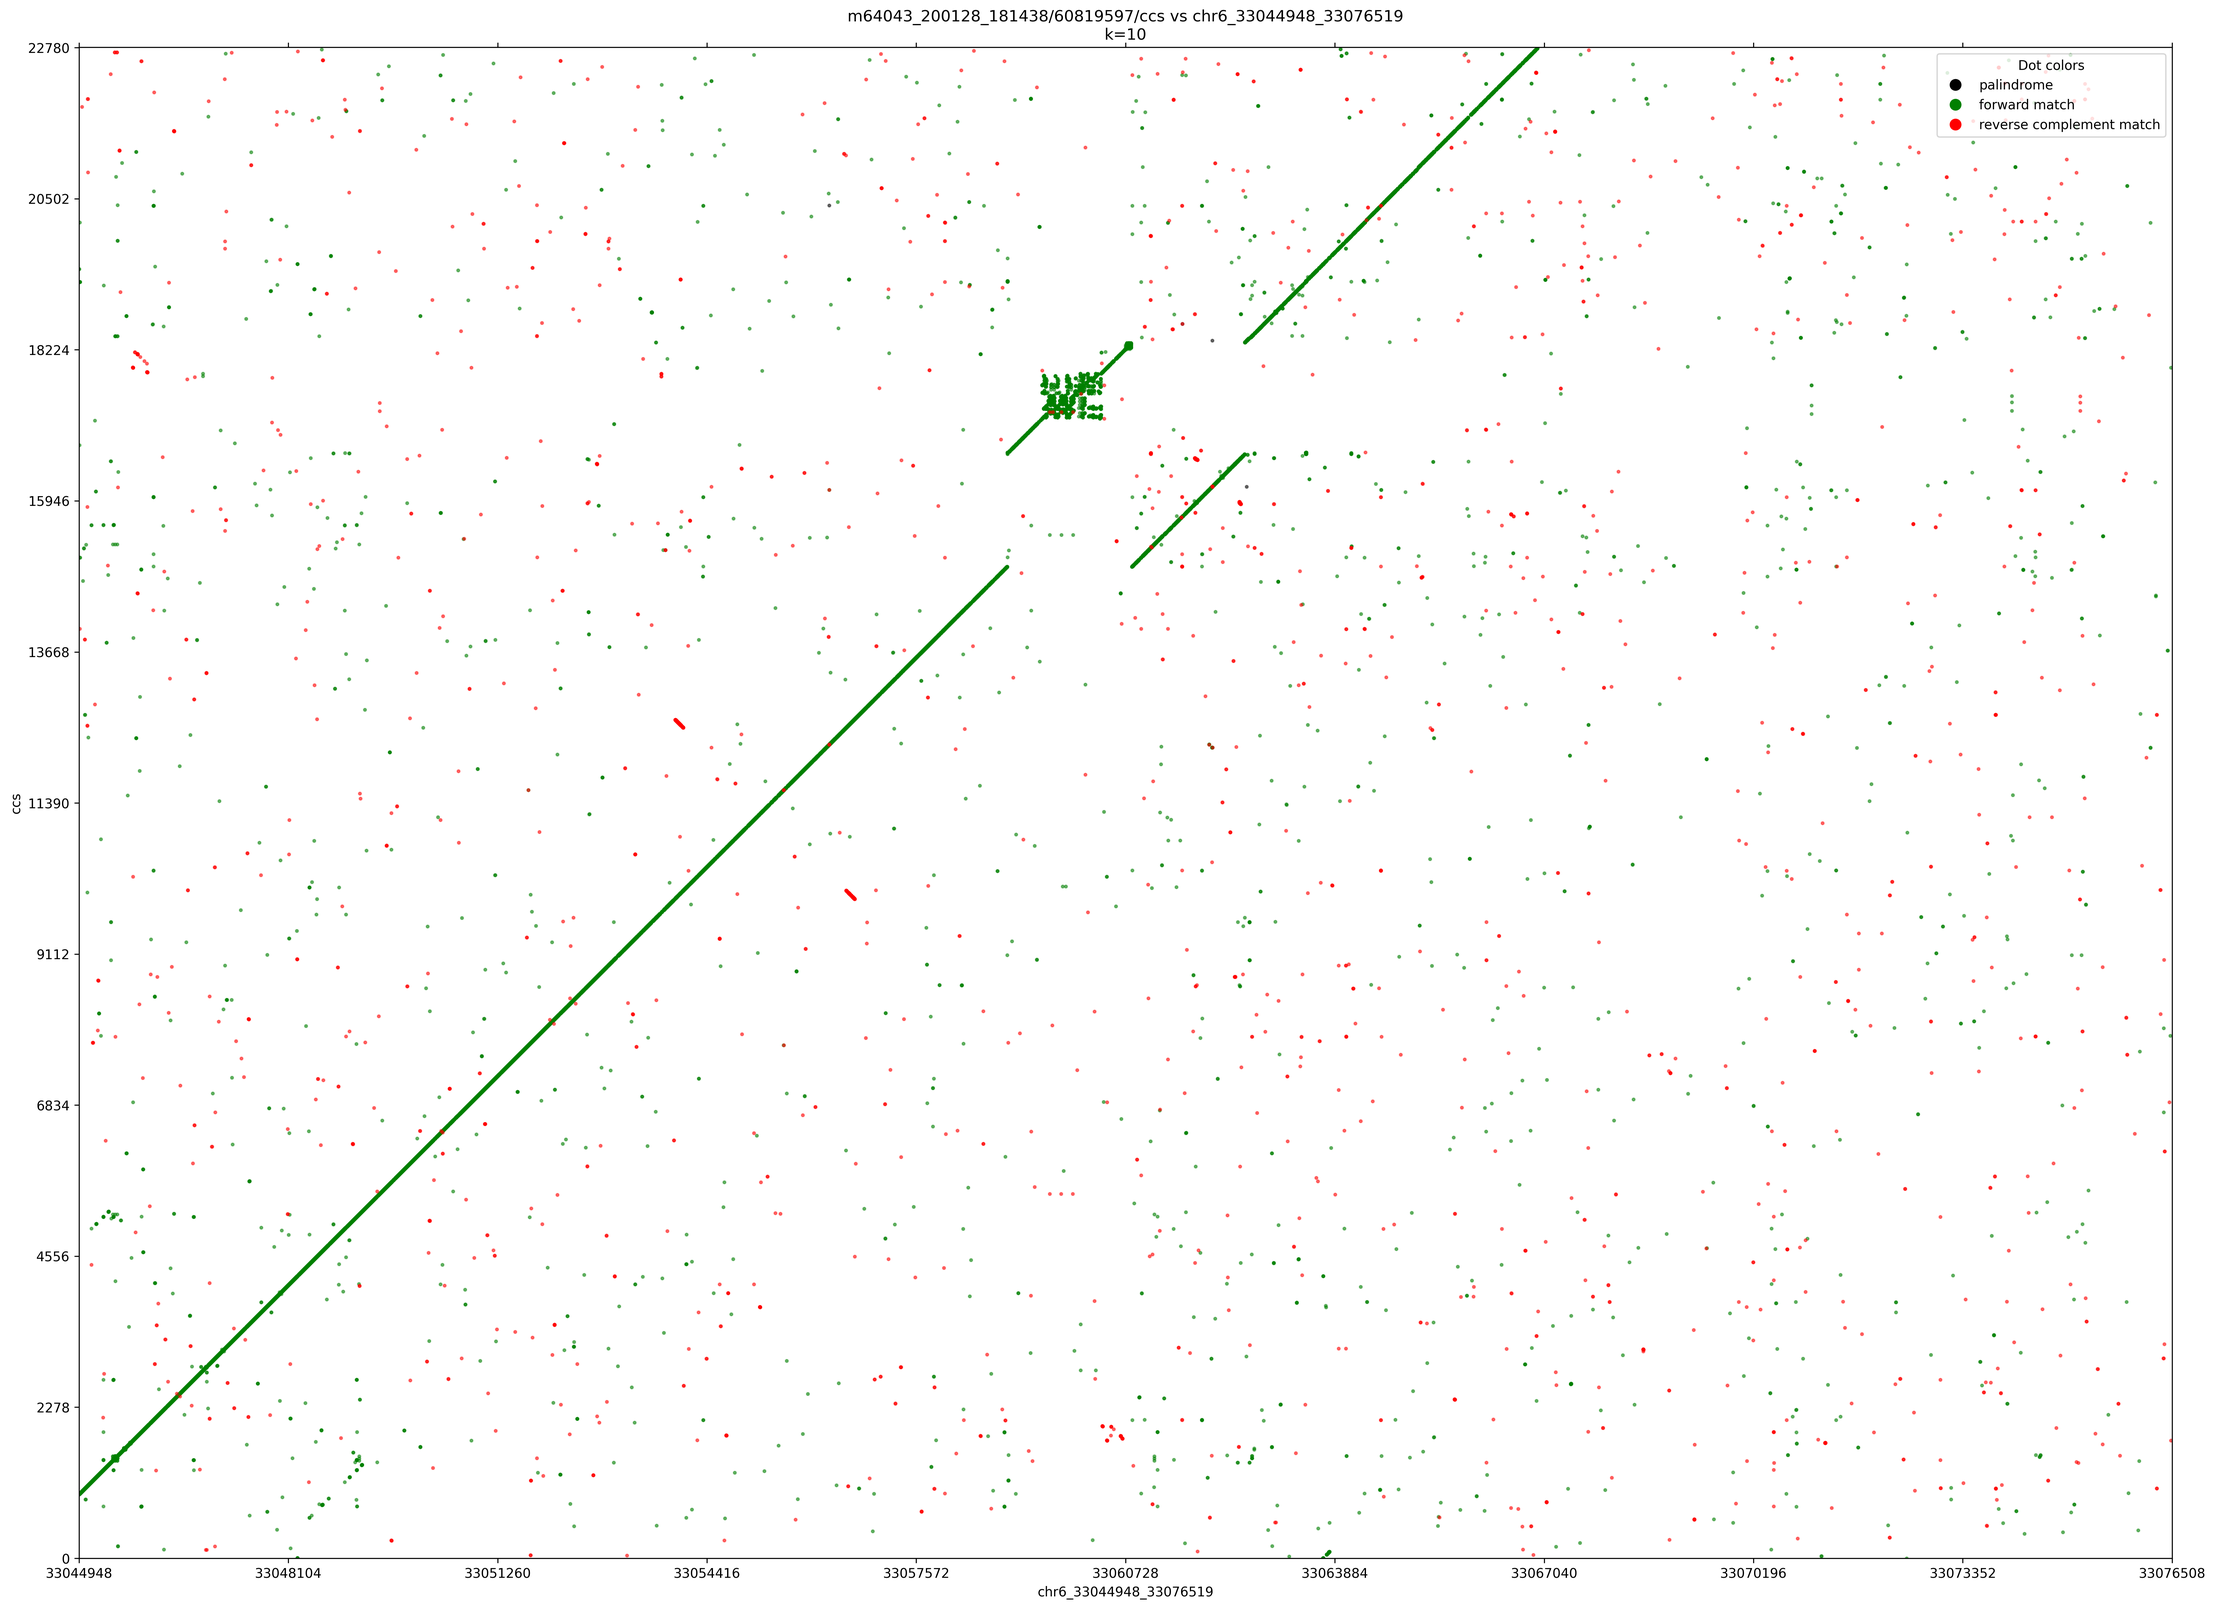
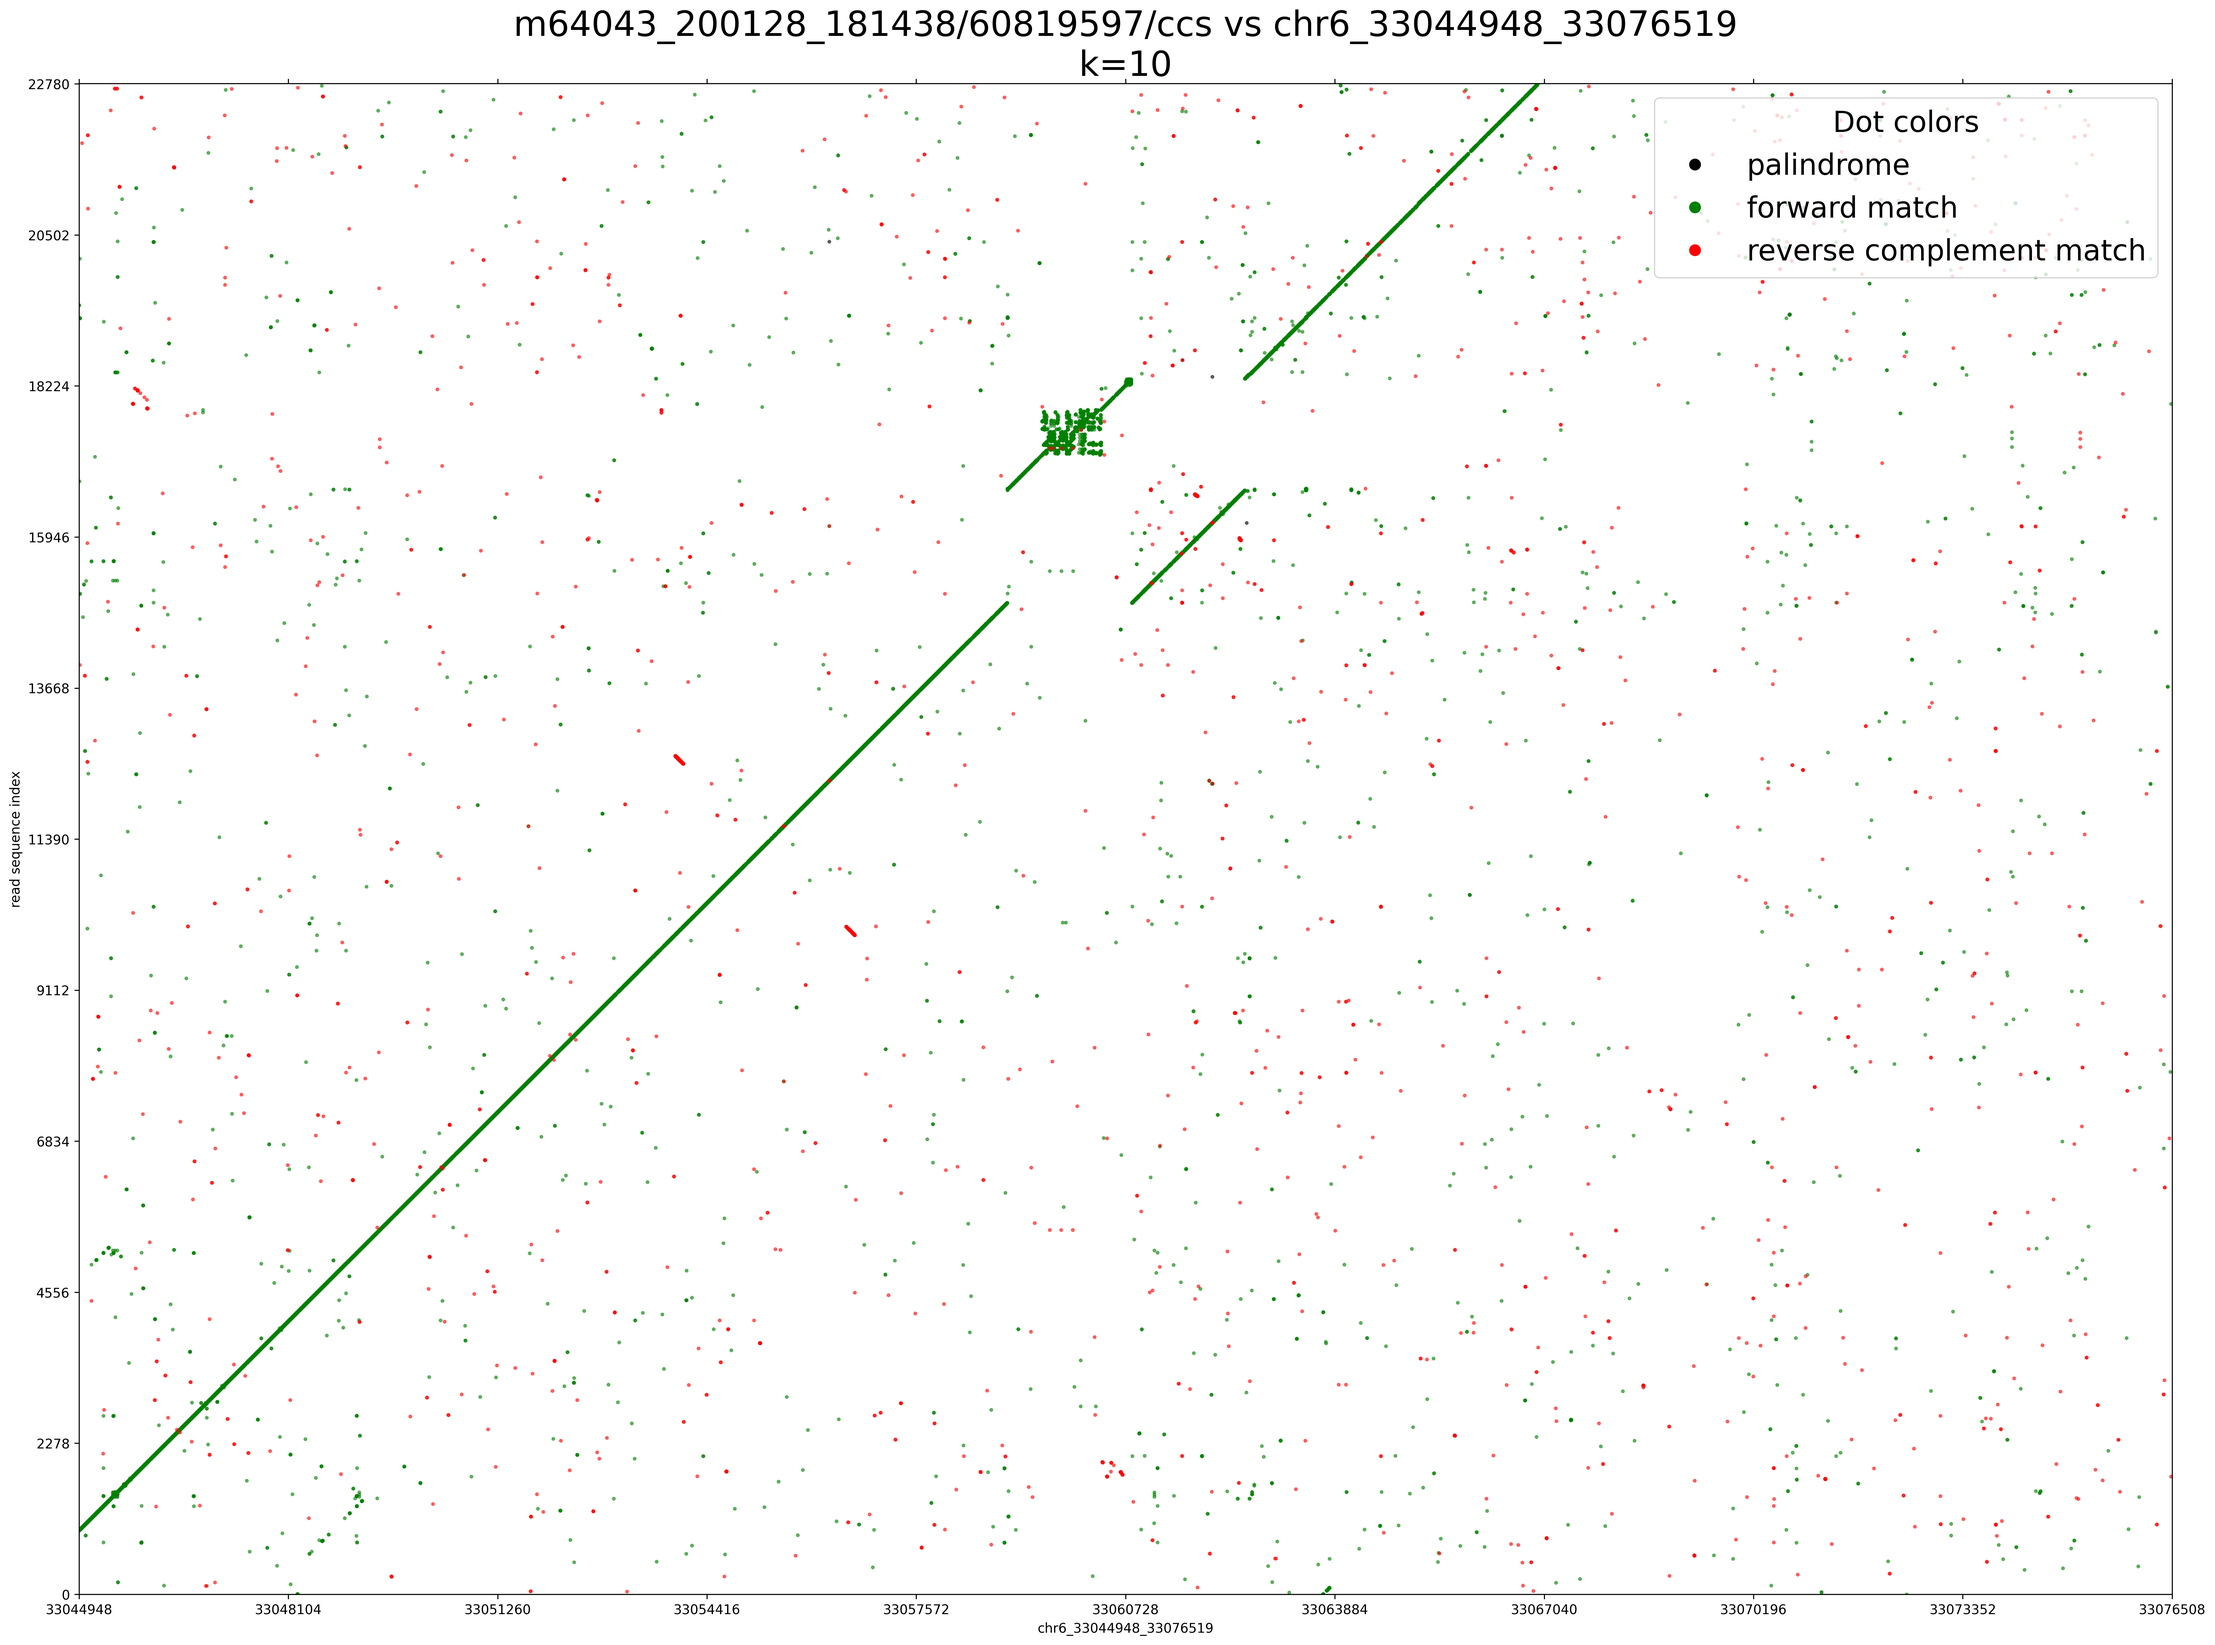
Sa plot (#3)
Display each alignment along read-space axis

diff --git a/utils/dot_plot.py b/utils/dot_plot.py
@@ -12,11 +12,22 @@ from matplotlib.legend import Legend
 #             -  1: k1 == k2, and ReverseComplement(k1) != k2
 #             - -1: k1 != k2, and ReverseComplement(k1) == k2
 #             -  0: k1 != k2, and ReverseComplement(k1) != k2
-COLORS = {
+DOT_COLORS = {
     2: ["black", "palindrome"],
     1: ["green", "forward match"],
     -1: ["red", "reverse complement match"],
     0: ["white", "no match"]
+}
+
+CIGAR_COLORS = {
+    "M": "green",
+    "I": "blue",
+    "D": "red",
+    "S": "gray",
+    "H": "gray",
+    "P": "gray",
+    "=": "green",
+    "X": "green"
 }
 
 
@@ -40,10 +51,13 @@ def get_chr_from_label(label):
         return None
     return label.split("_")[0]
 
+
 def get_ref_loc_from_label(label):
     if not label.split("_")[0].startswith("chr"):
         return None
     return [label.split("_")[0], int(label.split("_")[1]), int(label.split("_")[2])]
+
+
 def get_sparse_subset_by_value(matrix, value):
     return matrix.mat == value
 
@@ -52,17 +66,17 @@ def plot_dot(dpo, ax, label_x, label_y, heading, marker_size):
     # create a new figure
     dp = dpo.mat
     # loop over the possible values in the matrix and plot them
-    for i in COLORS.keys():
+    for i in DOT_COLORS.keys():
         # skip 0
         if i == 0:
             continue
         subset = get_sparse_subset_by_value(dpo, i)
-        ax.spy(subset, marker='.', markersize=marker_size, color=COLORS[i][0], origin='lower', alpha=0.5)
+        ax.spy(subset, marker='.', markersize=marker_size, color=DOT_COLORS[i][0], origin='lower', alpha=0.5)
 
     # Add a legend describing the colors
     legend_elements = [
-        plt.Line2D([0], [0], marker='o', color='w', label=COLORS[i][1], markerfacecolor=COLORS[i][0],
-                   markersize=10) for i in COLORS.keys() if i != 0]
+        plt.Line2D([0], [0], marker='o', color='w', label=DOT_COLORS[i][1], markerfacecolor=DOT_COLORS[i][0],
+                   markersize=10) for i in DOT_COLORS.keys() if i != 0]
     ax.legend(handles=legend_elements, loc='upper right', title="Dot colors")
 
     # set the x and y-axis labels
@@ -152,41 +166,54 @@ def get_base_alignment(read):
     cr = cigar.Cigar(read.cigarstring)
     return [read.reference_name, read.reference_start, read.reference_end, cr]
 
+
 def parse_SA_tag(tag):
-    sa = tag.split(",")
-    chr = sa[0]
-    start = int(sa[1])
-    end = int(sa[2])
-    region = chr + ":" + str(start) + "-" + str(end)
-    cigarS = cigar.Cigar(sa[3])
-    # return a list of chr, start, end, and cigar string
-    return [chr, start, end, cigarS]
-    # return region, cigarS
+    sa_all = tag.split(";")
+    sas = []
+    for sa in sa_all:
+        if sa == "":
+            continue
+        split_sa = sa.split(",")
+        chr = split_sa[0]
+        start = int(split_sa[1])
+        cigarS = cigar.Cigar(split_sa[3])
+        end = start + cigarS.reference_length()
+        sas.append([chr, start, end, cigarS])
+    return sas
 
 
 def get_all_alignments(read):
     # store a string of chr:start-end for each alignment and the cigar string associated with it
-    alignments = [get_base_alignment(read)]
+    alignments = []
+    alignments.append(get_base_alignment(read))
     for tag in read.tags:
         if tag[0] == "SA":
-            alignments.append(parse_SA_tag(tag[1]))
+            sas = parse_SA_tag(tag[1])
+            for sa in sas:
+                alignments.append(sa)
+    alignments = sort_alignments_by_left_clip(alignments)
     return alignments
 
 
-CIGAR_COLORS = {
-    "M": "green",
-    "I": "blue",
-    "D": "red",
-    "S": "gray",
-    "H": "gray",
-    "P": "gray",
-    "=": "green",
-    "X": "green"
-}
+def get_amount_of_left_soft_hard_clipping(alignment):
+    left_clip = 0
+    cr = alignment[3]
+    for c in cr.items():
+        if c[1] in ["H", "S"]:
+            left_clip += c[0]
+        else:
+            break
+    return left_clip
+
+
+def sort_alignments_by_left_clip(alignments):
+    return sorted(alignments, key=lambda x: get_amount_of_left_soft_hard_clipping(x))
+
+
 # "N": "white",
 
 def collapse_cigar_colors():
-#     group CIGAR_COLORS that are the same color
+    #     group CIGAR_COLORS that are the same color
     color_groups = {}
     for c in CIGAR_COLORS.items():
         if c[1] not in color_groups:
@@ -195,6 +222,11 @@ def collapse_cigar_colors():
             color_groups[c[1]] += ","
         color_groups[c[1]] += c[0]
     return color_groups
+
+
+def get_label_for_alignment(alignment, number):
+    return alignment[0] + ":" + str(alignment[1]) + "-" + str(alignment[2]) + " (#" + str(number) + ")"
+
 
 def add_cigar_to_fig(ax, read, min_indel, ref_loc):
     alignments = get_all_alignments(read)
@@ -209,21 +241,30 @@ def add_cigar_to_fig(ax, read, min_indel, ref_loc):
     # draw a vertical line at the old xmin
     ax.axvline(x=xmin, color='black', linestyle='solid')
     alignment_number = 0
+
+    labels_to_add = []
+    ticks_to_add = []
     for alignment in alignments:
-        alignment_x=rect_x + per_alignment_width * alignment_number
+        alignment_x = rect_x + per_alignment_width * alignment_number
+        ax.axvline(x=alignment_x + per_alignment_width, color='black', linestyle='dashed')
+        alignment_number += 1
+        labels_to_add.append(get_label_for_alignment(alignment, alignment_number))
+        ticks_to_add.append(alignment_x + per_alignment_width / 2)
         same_chr = ref_loc[0] == alignment[0]
         read_index = 0
-        ref_index =0-(ref_loc[1]-alignment[1])
+        ref_index = 0 - (ref_loc[1] - alignment[1])
         for c in alignment[3].items():
             if c[1] in ["M", "X", "="]:
                 ax.add_patch(
-                    plt.Rectangle((alignment_x, read_index), per_alignment_width, c[0], fill=True, color=CIGAR_COLORS[c[1]], alpha=0.25,
+                    plt.Rectangle((alignment_x, read_index), per_alignment_width, c[0], fill=True,
+                                  color=CIGAR_COLORS[c[1]], alpha=0.25,
                                   edgecolor=None))
                 read_index += c[0]
                 ref_index += c[0]
             elif c[1] in ["H", "S"]:
                 ax.add_patch(
-                    plt.Rectangle((alignment_x, read_index), per_alignment_width, c[0], fill=True, color=CIGAR_COLORS[c[1]], alpha=0.1,
+                    plt.Rectangle((alignment_x, read_index), per_alignment_width, c[0], fill=True,
+                                  color=CIGAR_COLORS[c[1]], alpha=0.25,
                                   edgecolor=None))
                 read_index += c[0]
             elif c[1] in ["D"]:
@@ -236,7 +277,8 @@ def add_cigar_to_fig(ax, read, min_indel, ref_loc):
             elif c[1] in ["I"]:
                 if c[0] > min_indel:
                     ax.add_patch(
-                        plt.Rectangle((alignment_x, read_index), per_alignment_width, c[0], fill=True, color=CIGAR_COLORS[c[1]],
+                        plt.Rectangle((alignment_x, read_index), per_alignment_width, c[0], fill=True,
+                                      color=CIGAR_COLORS[c[1]],
                                       alpha=0.25))
                     if same_chr:
                         ax.add_patch(
@@ -247,14 +289,30 @@ def add_cigar_to_fig(ax, read, min_indel, ref_loc):
             else:
                 print("unknown cigar: ", c)
     #add a color legend for the CIGAR colors
-    groups=collapse_cigar_colors()
-    keys= groups.keys().sort()
+    groups = collapse_cigar_colors()
+    keys = groups.keys()
     legend_elements = [
         plt.Line2D([0], [0], marker='o', color='w', label=groups[i], markerfacecolor=i,
                    markersize=10) for i in keys]
     labels = [groups[i] for i in keys]
-    leg=Legend(ax, legend_elements, loc='lower right', title="CIGAR colors",labels=labels)
+    leg = Legend(ax, legend_elements, loc='lower right', title="CIGAR colors", labels=labels)
     ax.add_artist(leg)
+    current_labels = ax.get_xticklabels()
+    current_ticks = ax.get_xticks()
+    # add the new x ticks at the beginning of the list
+    ax.set_xticks(np.append(ticks_to_add, current_ticks))
+    ax.set_xticklabels(np.append(labels_to_add, current_labels))
+    # rotate the labels, but only the new ones
+    # ax.set_xticklabels(current_labels, rotation=45, ha='right')
+    # loop over the ticks and rotate the new ones
+    for tick in ax.get_xticklabels():
+        if tick.get_text() in labels_to_add:
+            tick.set_rotation(45)
+            tick.set_ha('right')
+        else:
+            tick.set_rotation(-45)
+            tick.set_ha('left')
+    # plt.xticks(rotation=45, ha='right')
     return ax
 
 
@@ -295,12 +353,15 @@ def process_bam(args):
         dp = dot_read(args.reference_seq, read, args.k)
         fig, ax = plt.subplots()
         fig.tight_layout()
-        ax = plot_dot(dp, ax, args.reference_seq, read.query_name,
+        plt.rcParams.update({'font.size': 22})
+        ax = plot_dot(dp, ax, args.reference_seq, "read sequence index",
                       read.query_name + " vs " + root_file_name_sans_dir(args.reference_seq) + "\nk=" + str(args.k),
                       args.marker_size)
         save_plot(ax, get_png_file_for_read(read, args.k, args.output))
-        ax = add_cigar_to_fig(ax, read, args.min_indel, get_ref_loc_from_label(root_file_name_sans_dir(args.reference_seq)))
+        ax = add_cigar_to_fig(ax, read, args.min_indel,
+                              get_ref_loc_from_label(root_file_name_sans_dir(args.reference_seq)))
         save_plot(ax, get_png_file_for_read(read, args.k, args.output, cigar=True))
+        plt.close()
 
 
 if __name__ == "__main__":
